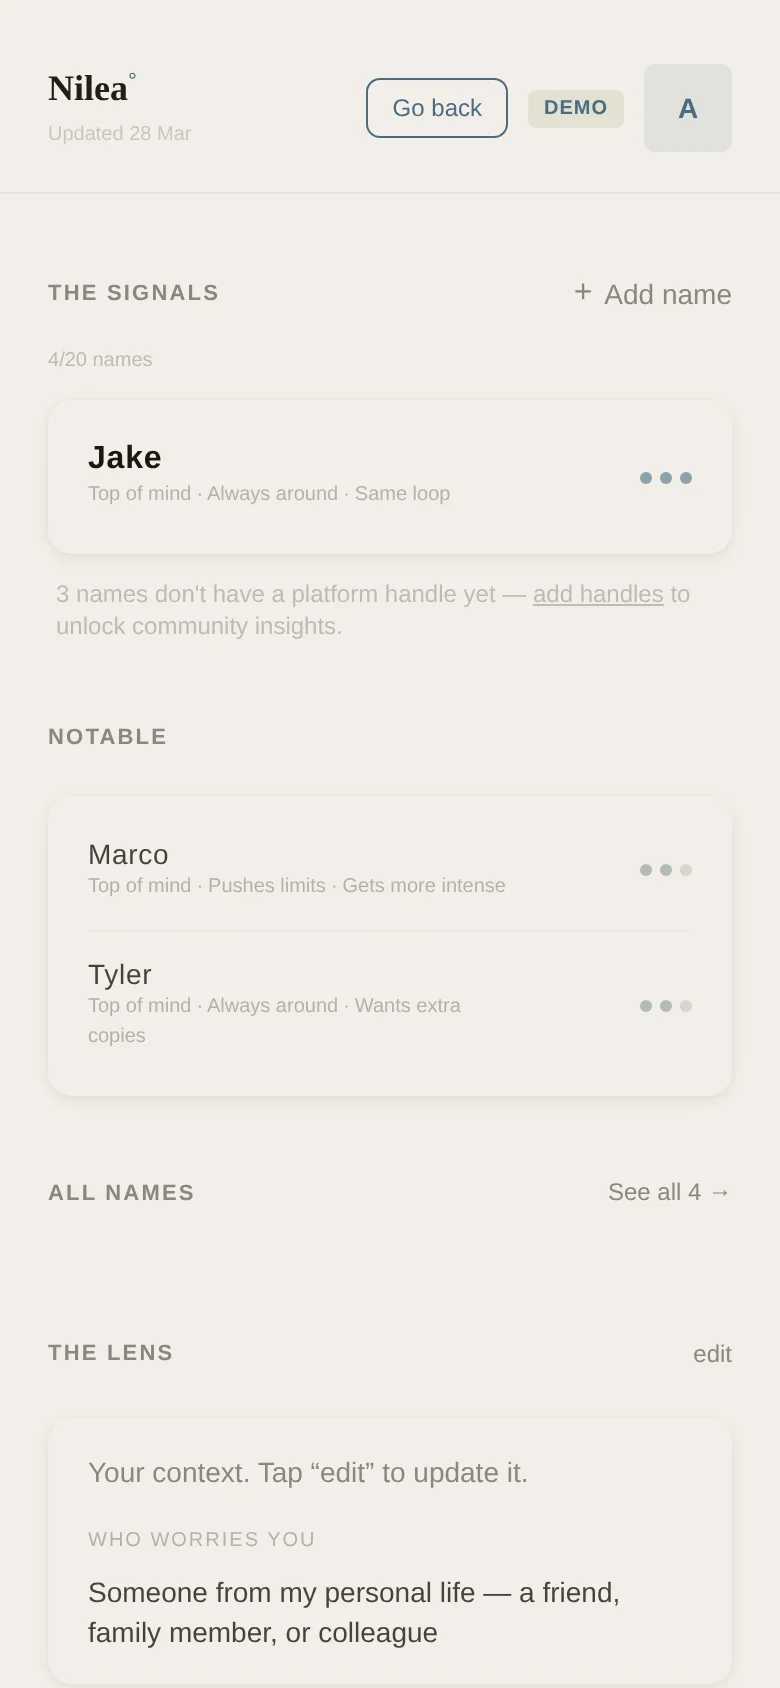
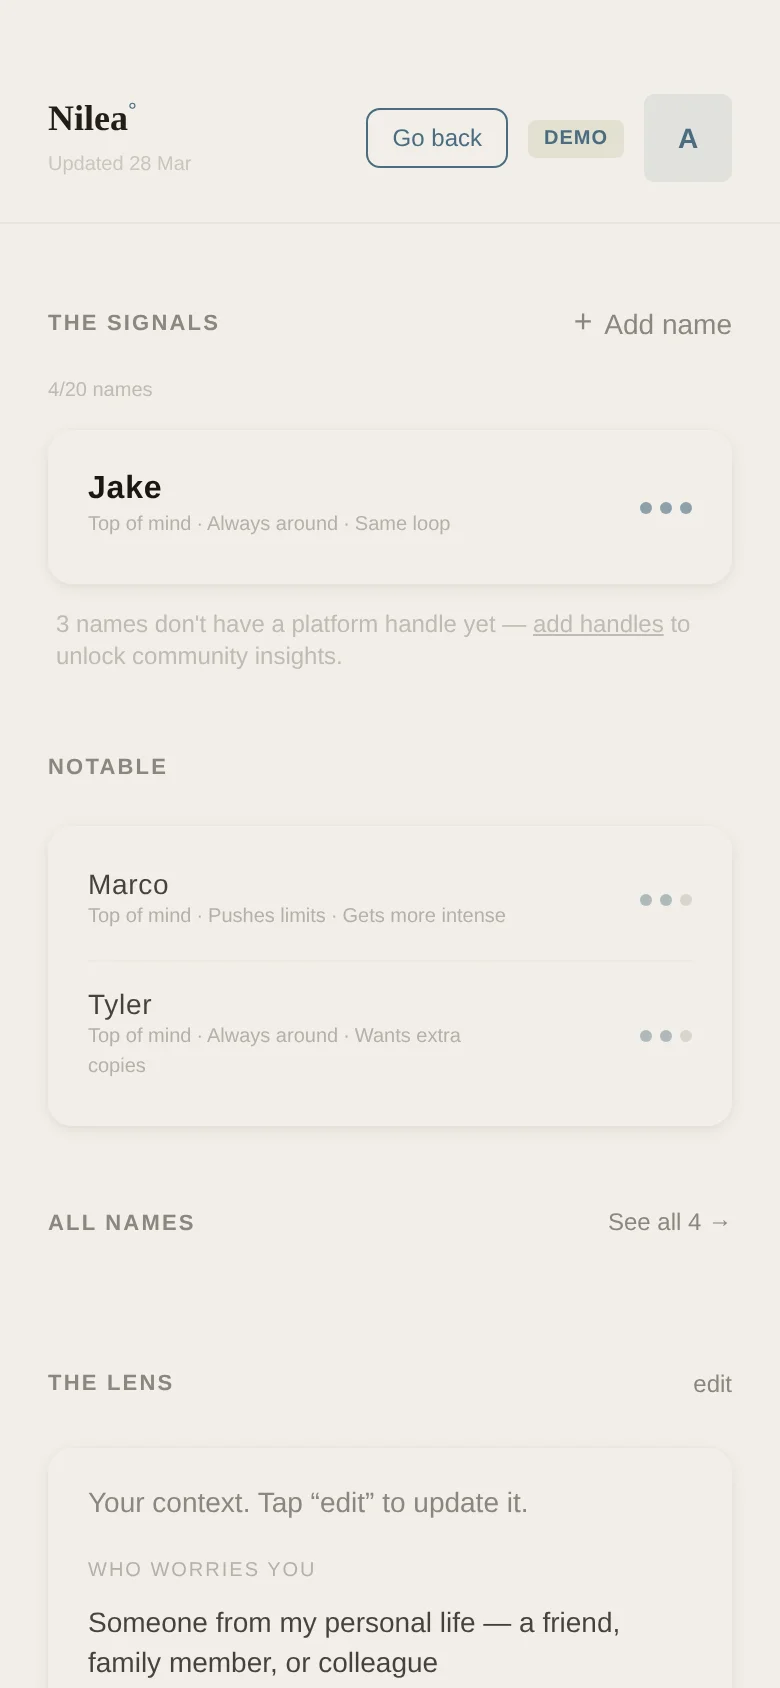
fix: screenshot 01 header — add 30px top breathing room above Nilea° wordmark

diff --git a/index.html b/index.html
@@ -456,7 +456,7 @@
       width: 100%;
       height: 480px;
       object-fit: cover;
-      object-position: top;
+      object-position: center top; /* 'top' alone clips the header at border-radius */
       display: block;
       border-radius: 7px 7px 0 0;
       overflow: hidden;
